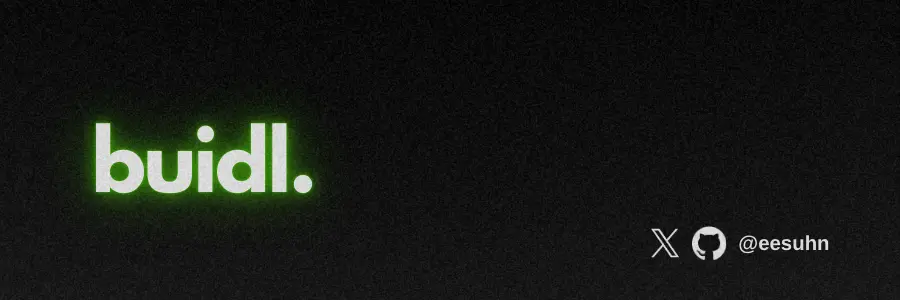
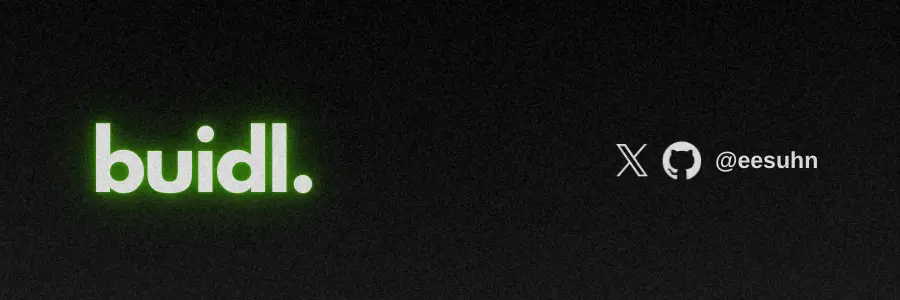
Updated profile

Changed region(s): [[0.6844, 0.45, 0.9333, 0.6], [0.7156, 0.75, 0.9333, 0.87]]

diff --git a/next-profile/src/components/ProfileCard.tsx b/next-profile/src/components/ProfileCard.tsx
@@ -63,13 +63,13 @@ const ProfileCard = () => {
             <h2 className="mb-0 text-xl font-bold text-white">
               eason | eesuhn
             </h2>
-            <span className="text-sm text-gray-400">
+            <span className="text-sm text-gray-400 italic">
               buidling cool ideas @{' '}
               <a
                 href="https://www.coingecko.com/"
                 target="_blank"
                 rel="noopener noreferrer"
-                className="inline-flex items-center"
+                className="inline-flex items-center hover:scale-105 focus:scale-105 focus:outline-none"
               >
                 <Image
                   src={`${basePath}/coingecko.webp`}
@@ -83,7 +83,7 @@ const ProfileCard = () => {
                 href="https://www.42network.org/"
                 target="_blank"
                 rel="noopener noreferrer"
-                className="ml-[6px] inline-flex items-center"
+                className="ml-[6px] inline-flex items-center hover:scale-105 focus:scale-105 focus:outline-none"
               >
                 <Image
                   src={`${basePath}/42.webp`}
@@ -94,7 +94,7 @@ const ProfileCard = () => {
                 />
               </a>
             </span>
-            <div className="mt-3 flex flex-col items-center">
+            <div className="mt-4 flex flex-col items-center">
               <a
                 href="https://t.me/eesuhn"
                 target="_blank"
@@ -113,14 +113,14 @@ const ProfileCard = () => {
               </a> */}
             </div>
           </div>
-          <div className="flex justify-center space-x-6 bg-[#000000] bg-opacity-30 px-6 py-4">
+          <div className="flex justify-center space-x-6 px-6 pb-6">
             {socialLinks.map(({ href, icon: Icon }) => (
               <a
                 key={href}
                 href={href}
                 target="_blank"
                 rel="noopener noreferrer"
-                className="text-gray-400 transition-colors duration-300 hover:text-white"
+                className="text-gray-400 transition-colors duration-300 hover:text-white focus:text-white focus:outline-none"
               >
                 <Icon className="h-6 w-6" />
               </a>
